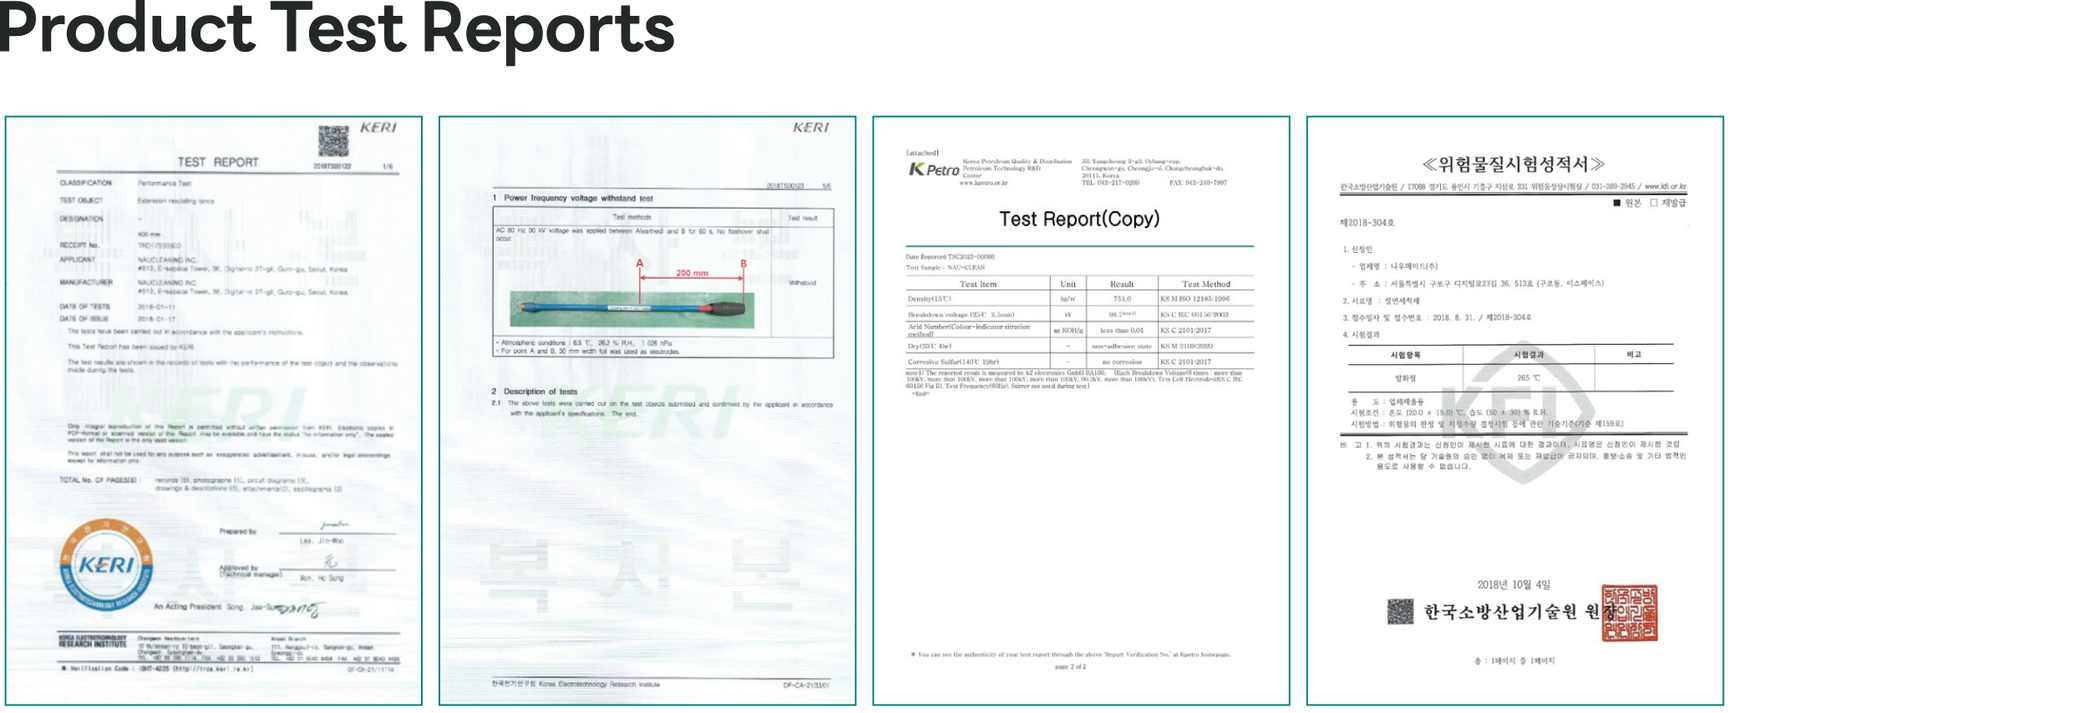
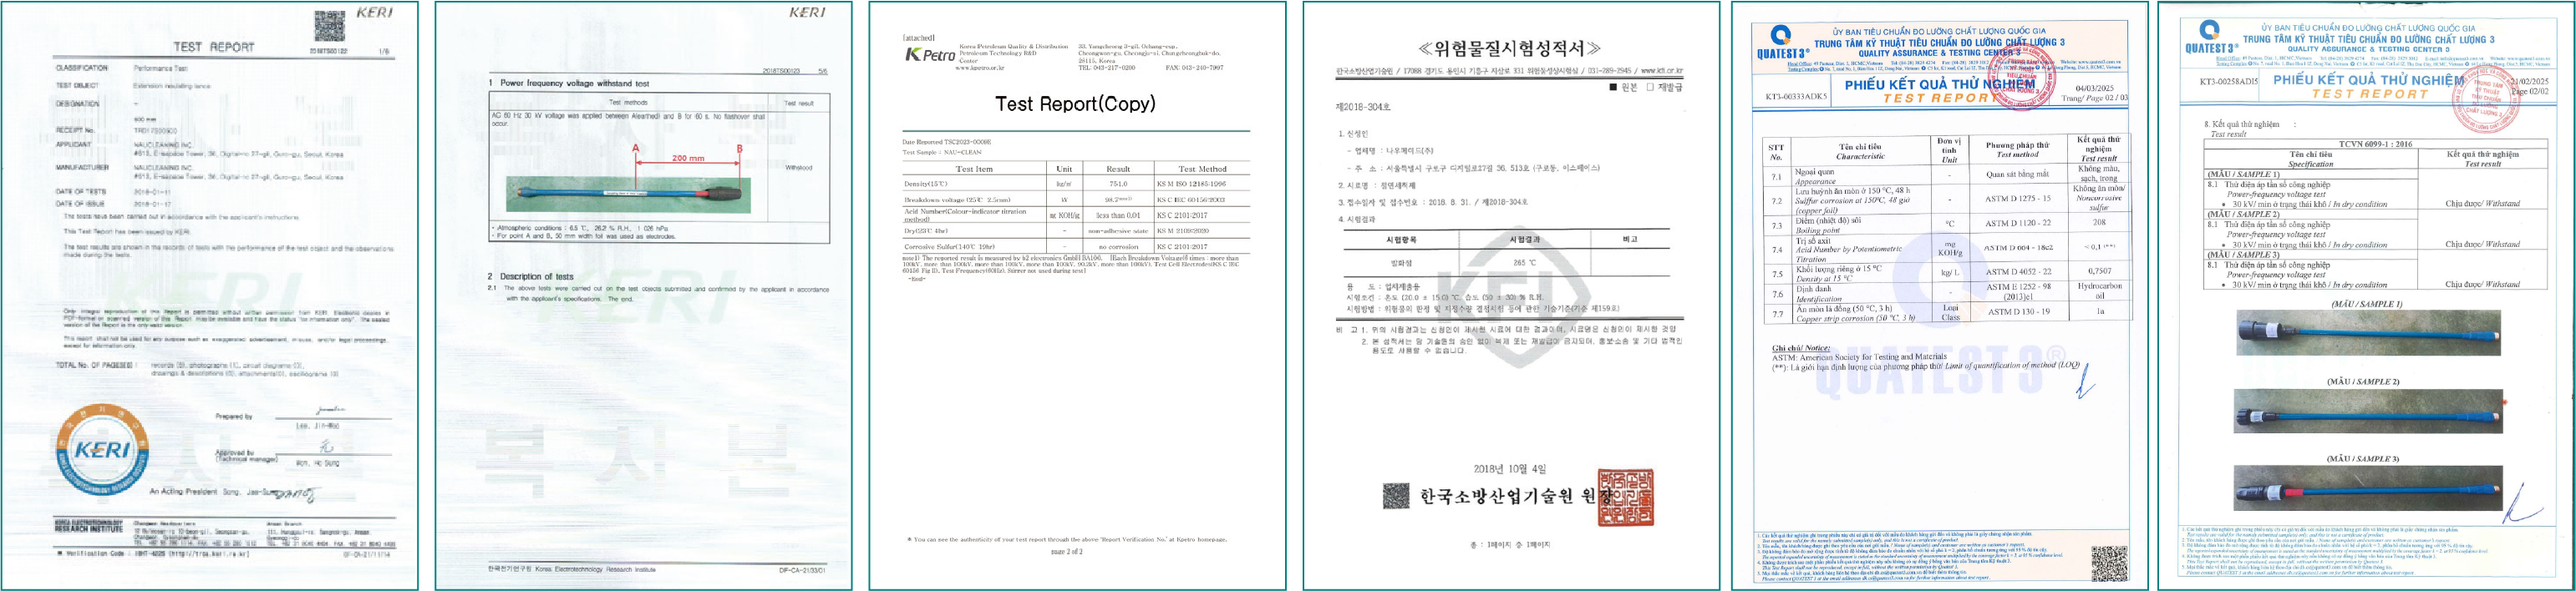
수정작업

Changed region(s): [[0.0, 0.0, 1.0, 1.0], [0.6516, 0.0, 0.6826, 0.0311], [0.4964, 0.0, 0.5274, 0.0311]]

diff --git a/nau/config/en/nau/sub04.html b/nau/config/en/nau/sub04.html
@@ -131,7 +131,12 @@
 					</div>
 				</div>
 				<div class="content03">
-					<img src="../../../assets/images/en/sub/nau/about04-img03.png" alt="">
+					<div class="content02_tit">
+						<img src="../../../assets/images/en/sub/nau/about04-img02_3.svg" alt="">
+					</div>
+					<div class="content-scroll">
+						<img src="../../../assets/images/en/sub/nau/about04-img03.png" alt="">
+					</div>
 				</div>
 			</div>
 		</div>

diff --git a/nau/config/cn/nau/sub04.html b/nau/config/cn/nau/sub04.html
@@ -131,7 +131,12 @@
 					</div>
 				</div>
 				<div class="content03">
+						<div class="content02_tit">
+						<img src="../../../assets/images/cn/sub/nau/about04-img02_3.svg" alt="">
+					</div>
+					<div class="content-scroll">
 					<img src="../../../assets/images/cn/sub/nau/about04-img03.png" alt="">
+					</div>
 				</div>
 			</div>
 		</div>
